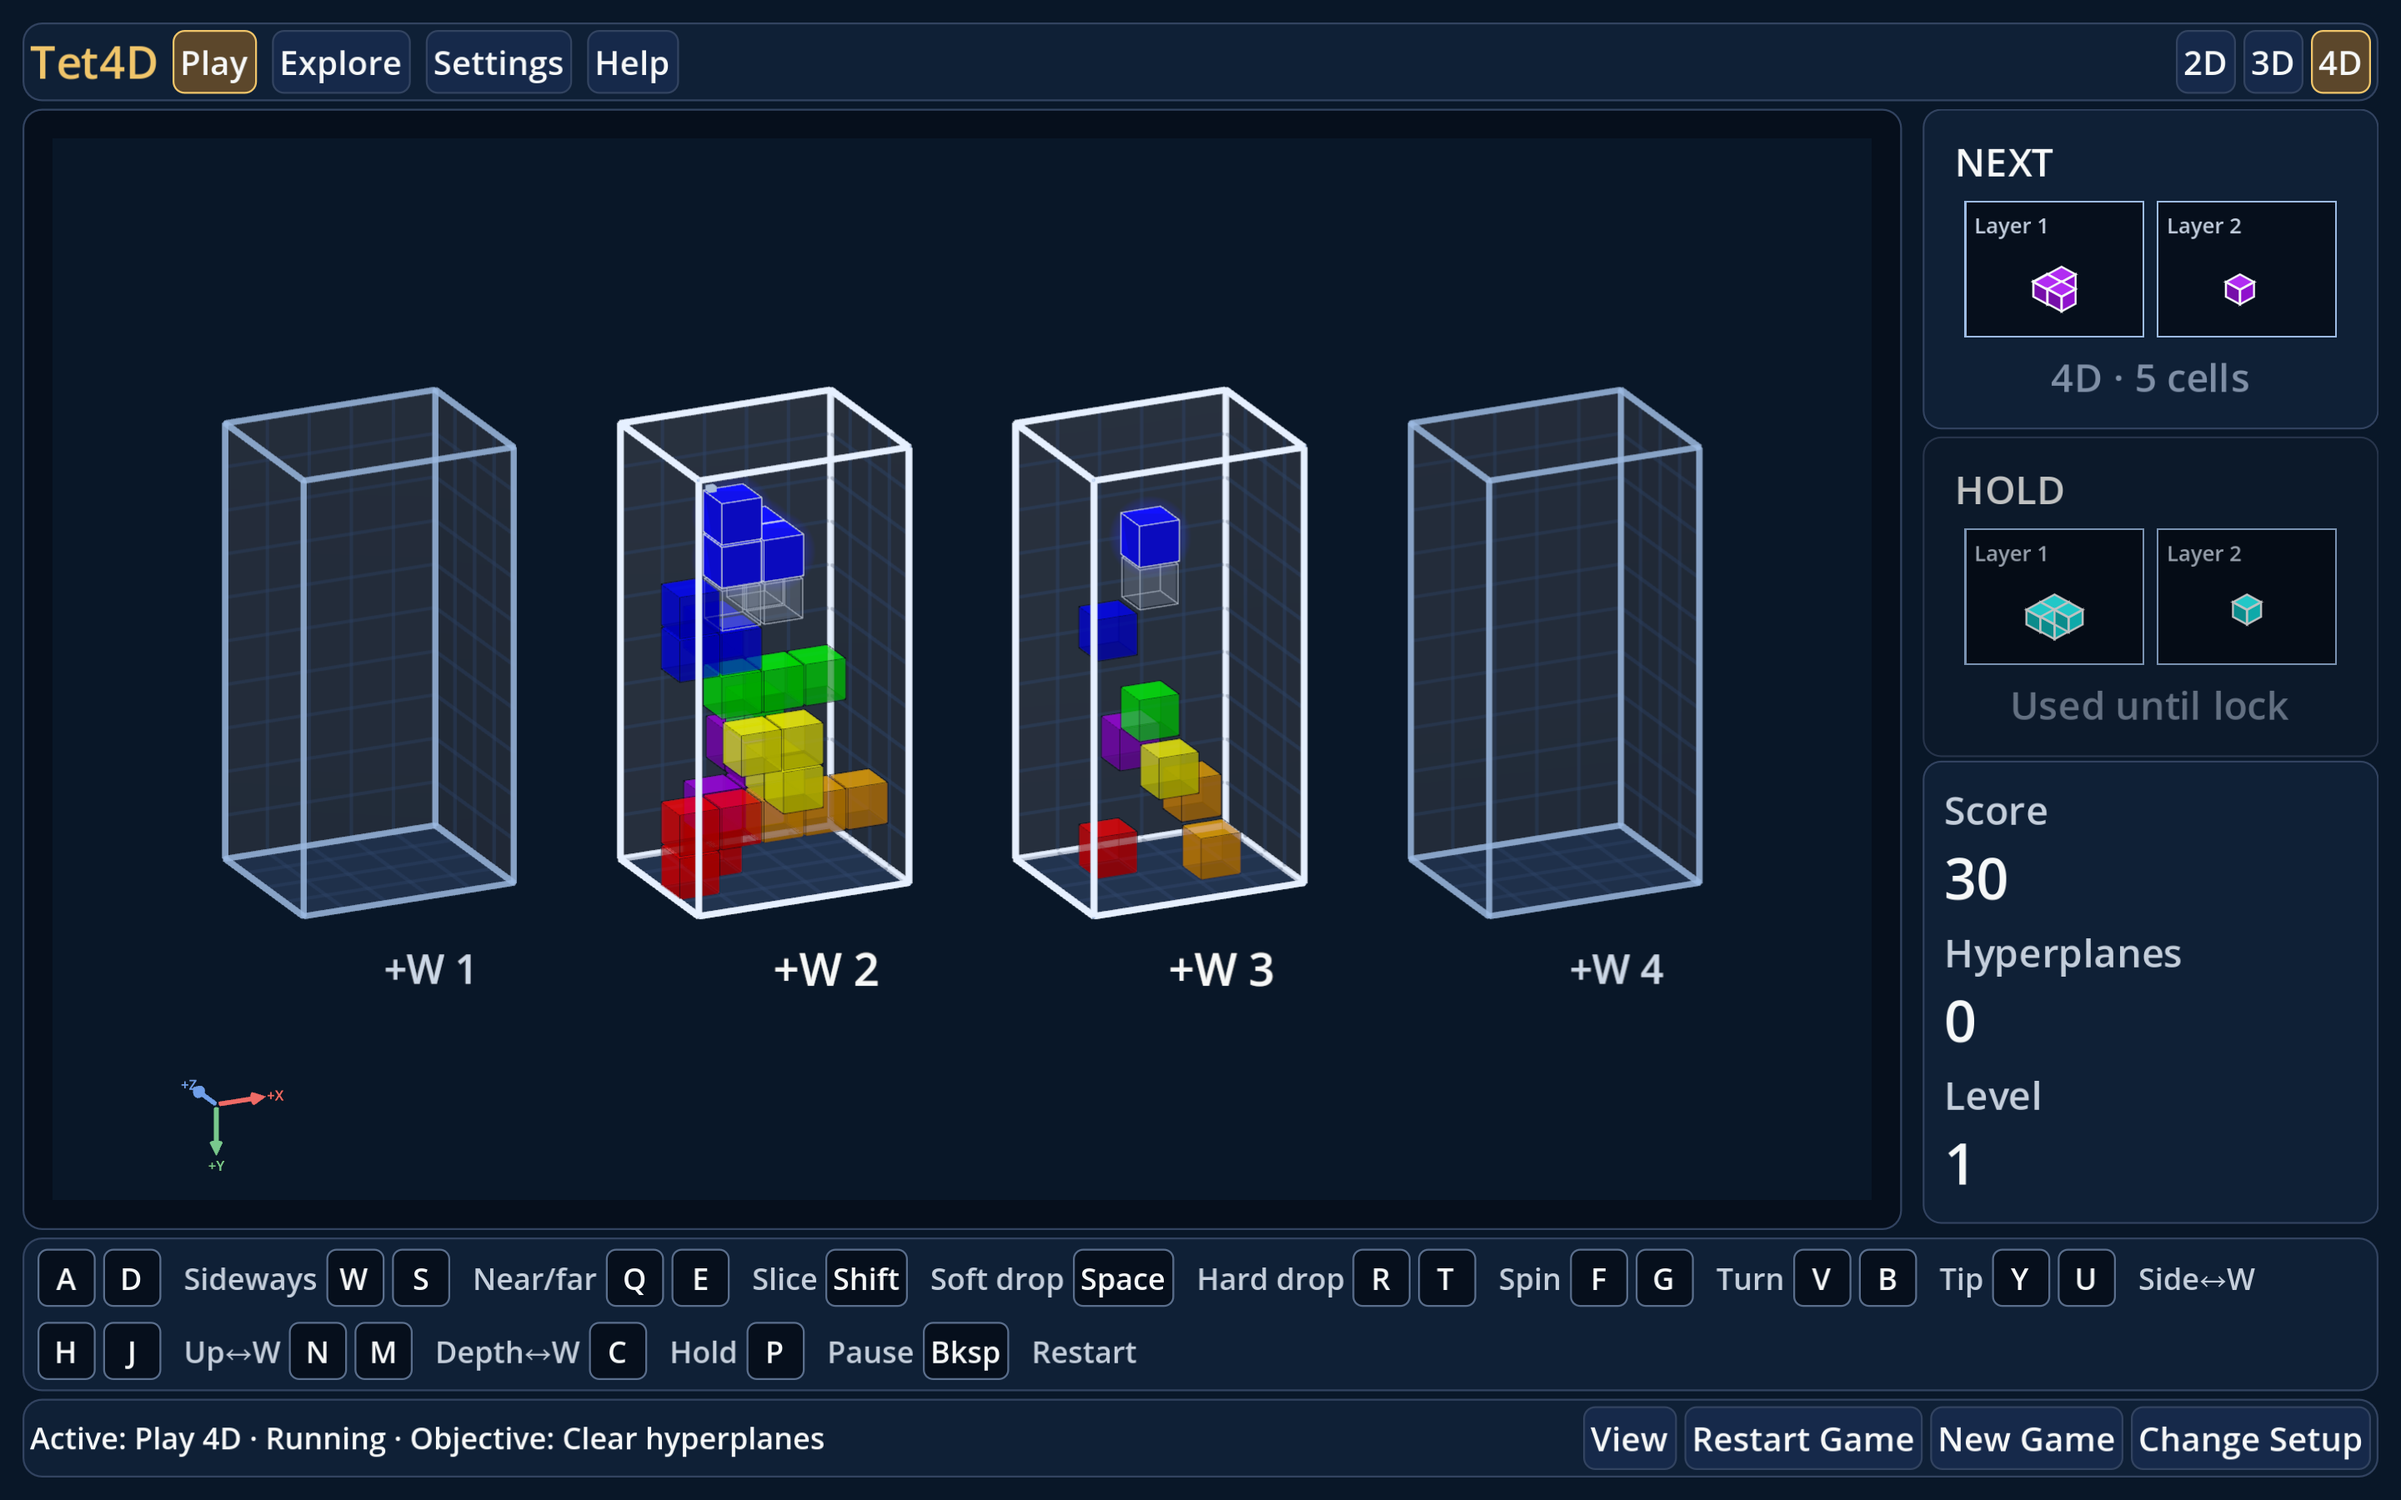
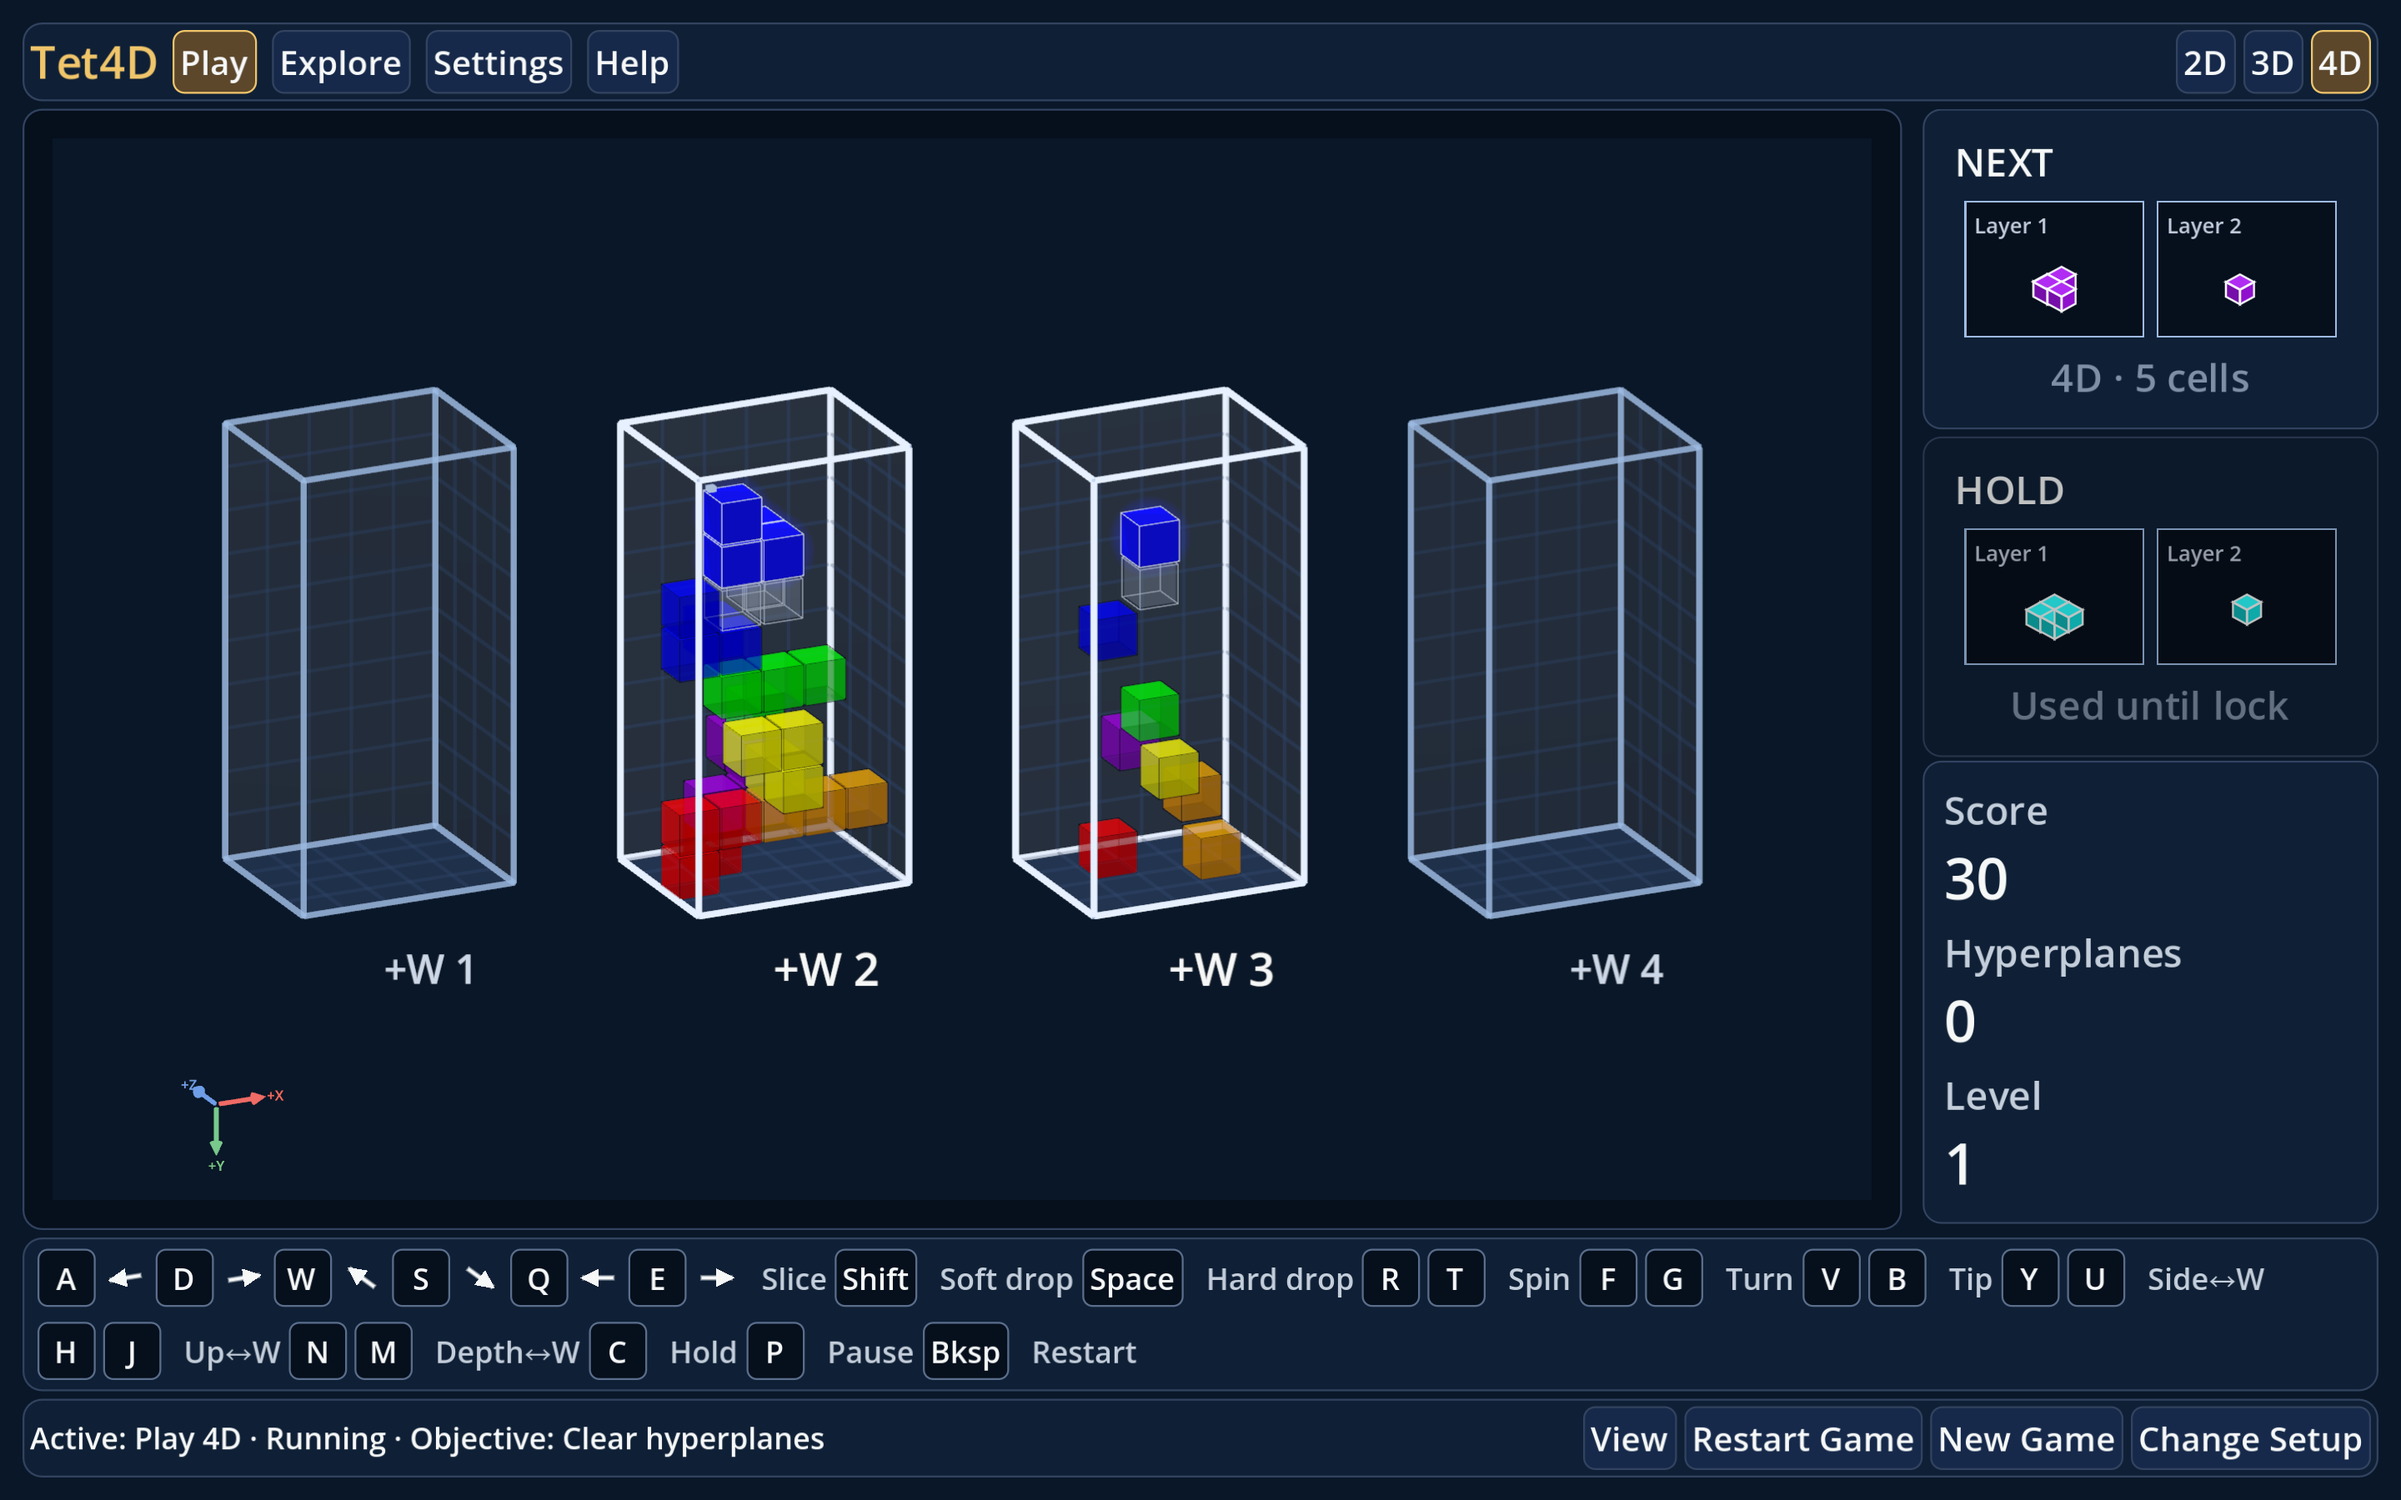
Show movement arrows in Concept A’s compact footer

Changed region(s): [[0.0312, 0.8089, 0.9375, 0.8711]]

diff --git a/CURRENT_STATE.md b/CURRENT_STATE.md
@@ -17,7 +17,8 @@ P3 keeps the approved Concept A cockpit as the default and offers Concept B
 with header stats and side controls. Both keep separate W slices. P3 review follow-up covers board allocation,
 legend visibility and full-size capture evidence. The layout lock measures
 well outlines separately from camera-fit padding. The owner directed
-compact footer controls for A and grouped spatial controls for B.
+compact footer controls with inline movement arrows for A and grouped
+spatial controls for B.
 Explorer cockpit Phases 0–2 (lock, descriptor and independent input dispatch) are implemented and verified. CI work remains isolated in PR #185. 2D keyboard movement uses the shared mapper; tests pin camera-relative defaults and rear-view relative/absolute dispatch. Manual screen review remains pending.
 Owner debug reconnection uses compact 2D shell chrome and shared projected helper directions, omits the duplicate vertical row, and adds no functions; focused checks pass. Phases 3–6 and human visual acceptance remain open under `docs/plans/explorer_cockpit_unification.md`.
 Explorer T2A implements the native bounded/cylinder/torus translation candidate and permanent preservation suite described in `docs/architecture/explorer_topology_t2a_native_transport.md`. T1 PRs #172–#176 are the accepted baseline; remaining Correction 4B P2 findings stay deferred. T2B is integrated; the owner-authorized 2D surface candidate adds Möbius/Klein/projective, coherent rotations/Undo and compatibility two-chart S² under `docs/architecture/explorer_surface_runtime.md`. The topology-first amendment selects single-square `sphere_adjacent_positive` and probe semantics for Klein/RP²/S² (RDS §2.5); physical inverse recovery and geometric coherence do not gate translation; destination injectivity remains mandatory. Complete T2/T6 acceptance remains open. Runtime authority has not transferred. See `docs/BACKLOG.md` and `docs/architecture/explorer_topology_t2_transfer_preparation.md`.

diff --git a/docs/plans/graphical_language_adoption.md b/docs/plans/graphical_language_adoption.md
@@ -157,8 +157,8 @@ describes the older "calm instrument" look.
   small-window checks.
 - P3 review checks cover the projected well outline without spawn headroom
   and complete legends at the standard capture window. The owner confirmed
-  compact footer controls for A and the grouped legend with MOVE compass and
-  rotation-plane glyphs and labels for B. Concept B pairs NEXT and HOLD
+  compact footer controls with inline directional arrows for A and the
+  grouped legend with MOVE compass and rotation-plane glyphs and labels for B. Concept B pairs NEXT and HOLD
   across one row in 3D/4D to fit the legend at standard scale.
   Full-size ready and seeded midgame captures show both layout choices.
   Smaller windows may scroll the helper deck.

diff --git a/docs/design/screenshots/graphical_language_p3/README.md b/docs/design/screenshots/graphical_language_p3/README.md
@@ -14,5 +14,6 @@ Concept A on the left and Concept B on the right.
 | 4D | [Pair](layouts-4d.png) | [Full size](concept-a-4d.png) | [Full size](concept-b-4d.png) |
 
 The owner approved both cockpit arrangements, with Concept A as the default
-and separate W slices in both. Concept A keeps the compact footer. Concept B shows the grouped spatial
+and separate W slices in both. Concept A keeps the compact footer with inline
+arrows beside the spatial movement keys. Concept B shows the grouped spatial
 legend in the side rail, with NEXT and HOLD paired above it in 3D and 4D.

diff --git a/docs/BACKLOG.md b/docs/BACKLOG.md
@@ -33,7 +33,7 @@ Completed chronology is recoverable from Git, merged PRs, CI, and
 
 - P3 review: recover board height, lock standard-window legend visibility,
   highlight Start and retain full-size Ready and seeded midgame evidence for
-  both layouts, including the grouped spatial legend in Concept B.
+  both layouts, with inline movement arrows in A and the grouped legend in B.
 
 - Graphical language P3: implement direct cockpit launch with Play · 2D
   defaults, last Play/Explore view and dimension, and explicit Start in Play.
